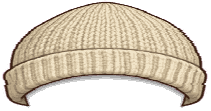
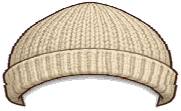
Beanies: fix oversized/odd fit on Soni, rebuild from original beanie art
Claude-Session: https://claude.ai/code/session_01L86vGdU7cJkwpir6SzUtMk

diff --git a/MobileClient/src/data/accessoryLayers.js b/MobileClient/src/data/accessoryLayers.js
@@ -55,12 +55,12 @@ export const ACC_LAYERS = {
     'hair/marigold_pin': { src: require('../../assets/accessories/soms_young__hair__marigold_pin.png'), l: 65.860, t: 8.211, w: 9.409, h: 4.301 },
   },
   soni_young: {
-    'beanies/mustard_cable': { src: require('../../assets/accessories/soni_young__beanies__mustard_cable.png'), l: 27.419, t: -5.469, w: 55.376, h: 16.895 },
-    'beanies/teal_striped': { src: require('../../assets/accessories/soni_young__beanies__teal_striped.png'), l: 27.419, t: 0.000, w: 55.376, h: 11.426 },
-    'beanies/cream': { src: require('../../assets/accessories/soni_young__beanies__cream.png'), l: 27.419, t: 0.000, w: 55.376, h: 11.426 },
-    'beanies/maroon_striped': { src: require('../../assets/accessories/soni_young__beanies__maroon_striped.png'), l: 27.419, t: 0.000, w: 55.376, h: 11.426 },
-    'beanies/navy': { src: require('../../assets/accessories/soni_young__beanies__navy.png'), l: 27.419, t: 0.000, w: 55.376, h: 11.426 },
-    'beanies/grey_chevron': { src: require('../../assets/accessories/soni_young__beanies__grey_chevron.png'), l: 27.419, t: 0.000, w: 55.376, h: 11.426 },
+    'beanies/mustard_cable': { src: require('../../assets/accessories/soni_young__beanies__mustard_cable.png'), l: 31.183, t: -4.688, w: 47.581, h: 16.113 },
+    'beanies/teal_striped': { src: require('../../assets/accessories/soni_young__beanies__teal_striped.png'), l: 31.183, t: 0.000, w: 47.581, h: 11.426 },
+    'beanies/cream': { src: require('../../assets/accessories/soni_young__beanies__cream.png'), l: 31.183, t: 0.000, w: 47.581, h: 11.426 },
+    'beanies/maroon_striped': { src: require('../../assets/accessories/soni_young__beanies__maroon_striped.png'), l: 31.183, t: 0.000, w: 47.581, h: 11.426 },
+    'beanies/navy': { src: require('../../assets/accessories/soni_young__beanies__navy.png'), l: 31.183, t: 0.000, w: 47.581, h: 11.426 },
+    'beanies/grey_chevron': { src: require('../../assets/accessories/soni_young__beanies__grey_chevron.png'), l: 31.183, t: 0.000, w: 47.581, h: 11.426 },
     'scarves/mustard': { src: require('../../assets/accessories/soni_young__scarves__mustard.png'), l: 28.226, t: 19.727, w: 47.581, h: 17.188 },
     'scarves/plaid': { src: require('../../assets/accessories/soni_young__scarves__plaid.png'), l: 28.226, t: 19.727, w: 47.581, h: 16.895 },
     'scarves/teal_striped': { src: require('../../assets/accessories/soni_young__scarves__teal_striped.png'), l: 28.226, t: 19.727, w: 47.849, h: 16.895 },
@@ -199,12 +199,12 @@ export const ACC_LAYERS = {
     'hair/marigold_pin': { src: require('../../assets/accessories/soms_mid__hair__marigold_pin.png'), l: 62.500, t: 10.938, w: 9.250, h: 4.297 },
   },
   soni_mid: {
-    'beanies/mustard_cable': { src: require('../../assets/accessories/soni_mid__beanies__mustard_cable.png'), l: 28.934, t: -5.469, w: 56.091, h: 16.992 },
-    'beanies/teal_striped': { src: require('../../assets/accessories/soni_mid__beanies__teal_striped.png'), l: 28.680, t: 0.098, w: 56.853, h: 11.426 },
-    'beanies/cream': { src: require('../../assets/accessories/soni_mid__beanies__cream.png'), l: 28.680, t: 0.098, w: 56.853, h: 11.426 },
-    'beanies/maroon_striped': { src: require('../../assets/accessories/soni_mid__beanies__maroon_striped.png'), l: 28.680, t: 0.098, w: 56.853, h: 11.426 },
-    'beanies/navy': { src: require('../../assets/accessories/soni_mid__beanies__navy.png'), l: 28.680, t: 0.098, w: 56.853, h: 11.426 },
-    'beanies/grey_chevron': { src: require('../../assets/accessories/soni_mid__beanies__grey_chevron.png'), l: 28.680, t: 0.098, w: 56.853, h: 11.426 },
+    'beanies/mustard_cable': { src: require('../../assets/accessories/soni_mid__beanies__mustard_cable.png'), l: 32.487, t: -4.688, w: 48.985, h: 16.211 },
+    'beanies/teal_striped': { src: require('../../assets/accessories/soni_mid__beanies__teal_striped.png'), l: 32.487, t: 0.098, w: 48.985, h: 11.426 },
+    'beanies/cream': { src: require('../../assets/accessories/soni_mid__beanies__cream.png'), l: 32.487, t: 0.098, w: 48.985, h: 11.426 },
+    'beanies/maroon_striped': { src: require('../../assets/accessories/soni_mid__beanies__maroon_striped.png'), l: 32.487, t: 0.098, w: 48.985, h: 11.426 },
+    'beanies/navy': { src: require('../../assets/accessories/soni_mid__beanies__navy.png'), l: 32.487, t: 0.098, w: 48.985, h: 11.426 },
+    'beanies/grey_chevron': { src: require('../../assets/accessories/soni_mid__beanies__grey_chevron.png'), l: 32.487, t: 0.098, w: 48.985, h: 11.426 },
     'scarves/mustard': { src: require('../../assets/accessories/soni_mid__scarves__mustard.png'), l: 29.695, t: 19.141, w: 43.147, h: 16.895 },
     'scarves/plaid': { src: require('../../assets/accessories/soni_mid__scarves__plaid.png'), l: 29.695, t: 19.141, w: 42.893, h: 16.699 },
     'scarves/teal_striped': { src: require('../../assets/accessories/soni_mid__scarves__teal_striped.png'), l: 29.695, t: 19.141, w: 43.147, h: 16.602 },
@@ -343,12 +343,12 @@ export const ACC_LAYERS = {
     'hair/marigold_pin': { src: require('../../assets/accessories/soms_older__hair__marigold_pin.png'), l: 63.073, t: 10.352, w: 9.434, h: 4.102 },
   },
   soni_older: {
-    'beanies/mustard_cable': { src: require('../../assets/accessories/soni_older__beanies__mustard_cable.png'), l: 26.842, t: -3.418, w: 53.684, h: 16.211 },
-    'beanies/teal_striped': { src: require('../../assets/accessories/soni_older__beanies__teal_striped.png'), l: 26.842, t: 2.148, w: 53.684, h: 10.645 },
-    'beanies/cream': { src: require('../../assets/accessories/soni_older__beanies__cream.png'), l: 26.842, t: 2.148, w: 53.684, h: 10.645 },
-    'beanies/maroon_striped': { src: require('../../assets/accessories/soni_older__beanies__maroon_striped.png'), l: 26.842, t: 2.148, w: 53.684, h: 10.645 },
-    'beanies/navy': { src: require('../../assets/accessories/soni_older__beanies__navy.png'), l: 26.842, t: 2.148, w: 53.684, h: 10.645 },
-    'beanies/grey_chevron': { src: require('../../assets/accessories/soni_older__beanies__grey_chevron.png'), l: 26.842, t: 2.148, w: 53.684, h: 10.645 },
+    'beanies/mustard_cable': { src: require('../../assets/accessories/soni_older__beanies__mustard_cable.png'), l: 30.526, t: -2.539, w: 46.316, h: 15.332 },
+    'beanies/teal_striped': { src: require('../../assets/accessories/soni_older__beanies__teal_striped.png'), l: 30.526, t: 2.148, w: 46.316, h: 10.645 },
+    'beanies/cream': { src: require('../../assets/accessories/soni_older__beanies__cream.png'), l: 30.526, t: 2.148, w: 46.316, h: 10.645 },
+    'beanies/maroon_striped': { src: require('../../assets/accessories/soni_older__beanies__maroon_striped.png'), l: 30.526, t: 2.148, w: 46.316, h: 10.645 },
+    'beanies/navy': { src: require('../../assets/accessories/soni_older__beanies__navy.png'), l: 30.526, t: 2.148, w: 46.316, h: 10.645 },
+    'beanies/grey_chevron': { src: require('../../assets/accessories/soni_older__beanies__grey_chevron.png'), l: 30.526, t: 2.148, w: 46.316, h: 10.645 },
     'scarves/mustard': { src: require('../../assets/accessories/soni_older__scarves__mustard.png'), l: 28.421, t: 19.531, w: 43.947, h: 16.309 },
     'scarves/plaid': { src: require('../../assets/accessories/soni_older__scarves__plaid.png'), l: 28.421, t: 19.531, w: 43.947, h: 16.016 },
     'scarves/teal_striped': { src: require('../../assets/accessories/soni_older__scarves__teal_striped.png'), l: 28.421, t: 19.531, w: 43.947, h: 15.918 },
@@ -487,12 +487,12 @@ export const ACC_LAYERS = {
     'hair/marigold_pin': { src: require('../../assets/accessories/soms_senior__hair__marigold_pin.png'), l: 64.583, t: 9.180, w: 8.594, h: 4.102 },
   },
   soni_senior: {
-    'beanies/mustard_cable': { src: require('../../assets/accessories/soni_senior__beanies__mustard_cable.png'), l: 25.269, t: -4.980, w: 56.452, h: 16.797 },
-    'beanies/teal_striped': { src: require('../../assets/accessories/soni_senior__beanies__teal_striped.png'), l: 25.269, t: 0.977, w: 56.720, h: 10.840 },
-    'beanies/cream': { src: require('../../assets/accessories/soni_senior__beanies__cream.png'), l: 25.269, t: 0.977, w: 56.720, h: 10.840 },
-    'beanies/maroon_striped': { src: require('../../assets/accessories/soni_senior__beanies__maroon_striped.png'), l: 25.269, t: 0.977, w: 56.720, h: 10.840 },
-    'beanies/navy': { src: require('../../assets/accessories/soni_senior__beanies__navy.png'), l: 25.269, t: 0.977, w: 56.720, h: 10.840 },
-    'beanies/grey_chevron': { src: require('../../assets/accessories/soni_senior__beanies__grey_chevron.png'), l: 25.269, t: 0.977, w: 56.720, h: 10.840 },
+    'beanies/mustard_cable': { src: require('../../assets/accessories/soni_senior__beanies__mustard_cable.png'), l: 29.301, t: -4.102, w: 48.656, h: 15.918 },
+    'beanies/teal_striped': { src: require('../../assets/accessories/soni_senior__beanies__teal_striped.png'), l: 29.301, t: 0.977, w: 48.656, h: 10.840 },
+    'beanies/cream': { src: require('../../assets/accessories/soni_senior__beanies__cream.png'), l: 29.301, t: 0.977, w: 48.656, h: 10.840 },
+    'beanies/maroon_striped': { src: require('../../assets/accessories/soni_senior__beanies__maroon_striped.png'), l: 29.301, t: 0.977, w: 48.656, h: 10.840 },
+    'beanies/navy': { src: require('../../assets/accessories/soni_senior__beanies__navy.png'), l: 29.301, t: 0.977, w: 48.656, h: 10.840 },
+    'beanies/grey_chevron': { src: require('../../assets/accessories/soni_senior__beanies__grey_chevron.png'), l: 29.301, t: 0.977, w: 48.656, h: 10.840 },
     'scarves/mustard': { src: require('../../assets/accessories/soni_senior__scarves__mustard.png'), l: 26.882, t: 18.555, w: 44.892, h: 16.309 },
     'scarves/plaid': { src: require('../../assets/accessories/soni_senior__scarves__plaid.png'), l: 26.882, t: 18.555, w: 44.892, h: 16.016 },
     'scarves/teal_striped': { src: require('../../assets/accessories/soni_senior__scarves__teal_striped.png'), l: 26.882, t: 18.555, w: 44.892, h: 15.918 },
